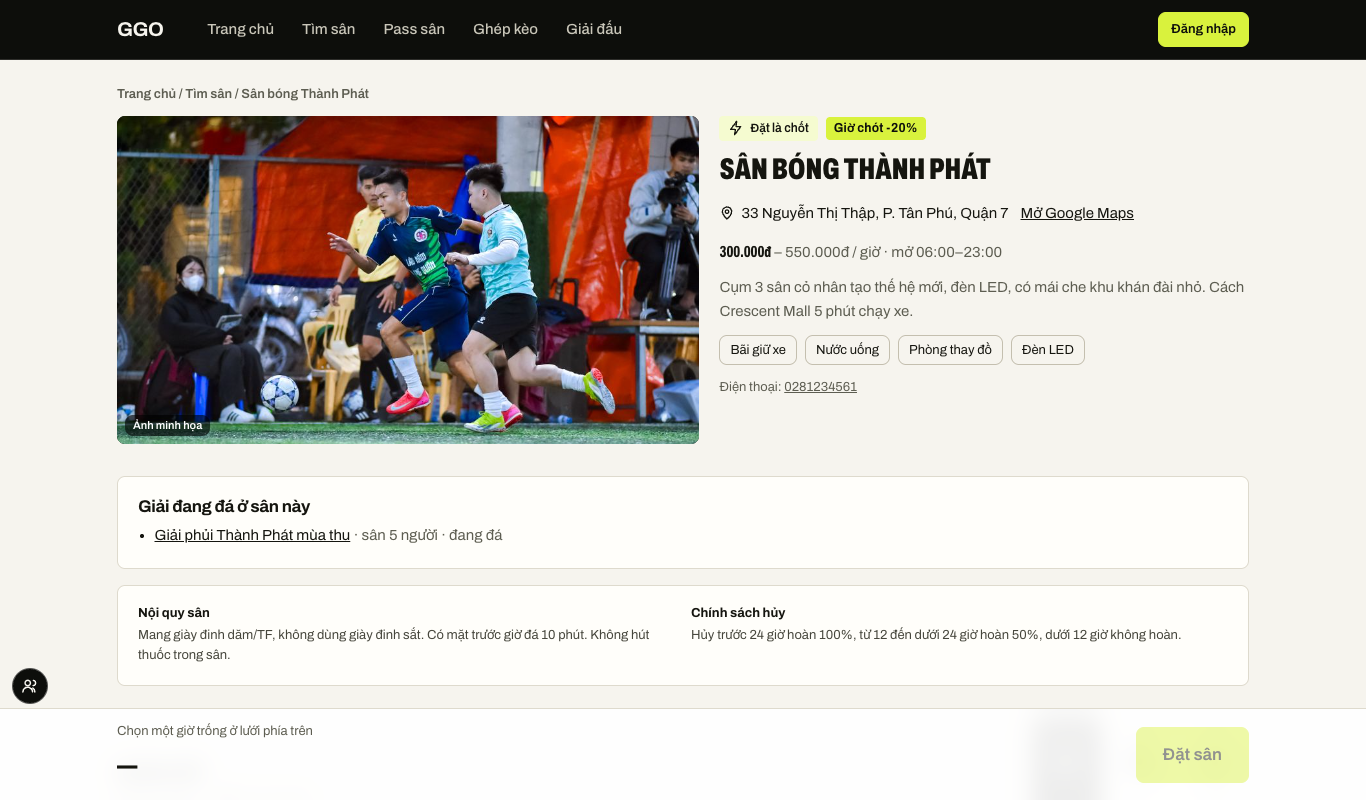
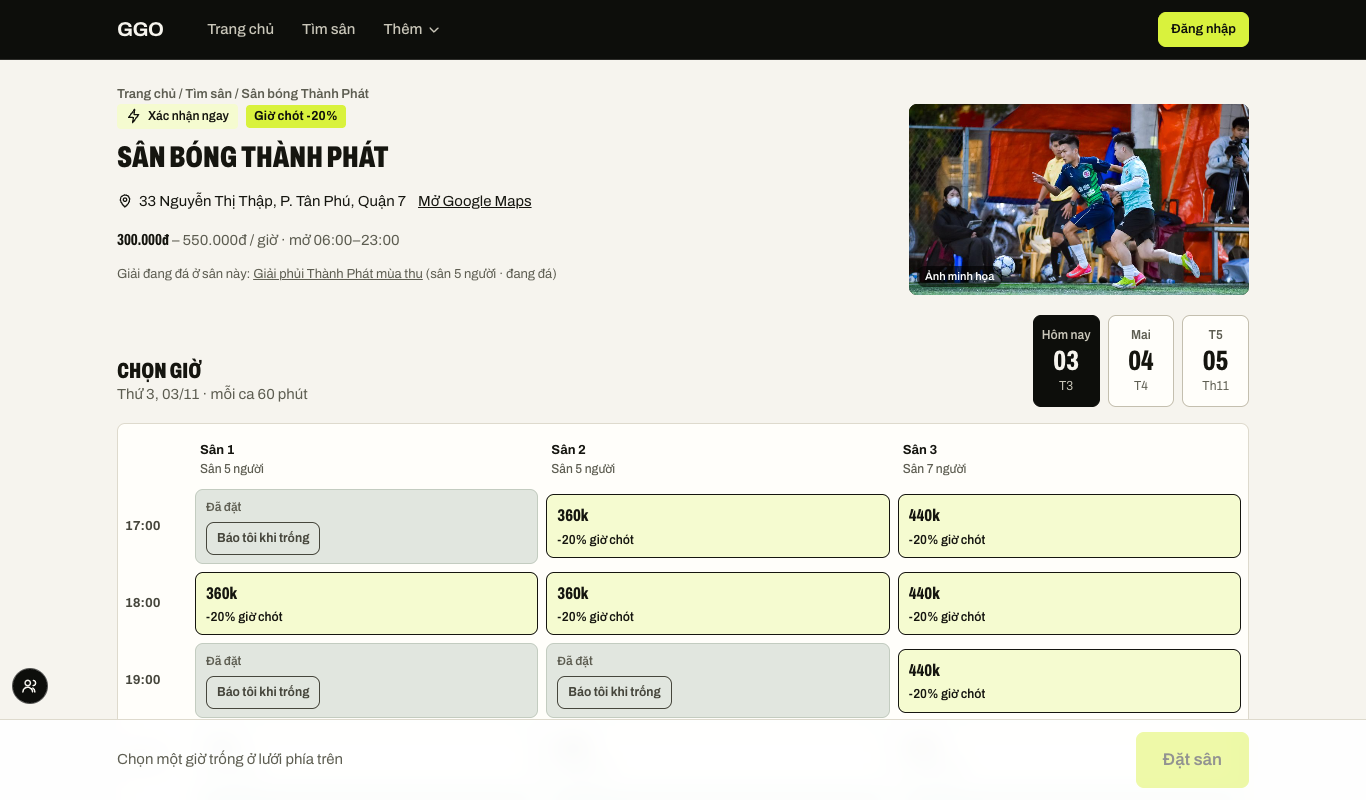
Tài liệu Buổi 2: chụp lại ảnh từ main, thêm mục Cải thiện trải nghiệm đặt sân, sửa mô tả giao diện cũ

diff --git a/docs/buoi2/nop-bai.md b/docs/buoi2/nop-bai.md
@@ -33,11 +33,11 @@ Vì vậy **không viết là "chỉ dùng HTML/CSS"**. Phần HTML/CSS là các
 ## 2. Trang chủ
 
 - **File:** `public/index.html` + `public/css/app.css`, header/footer dựng bởi `public/js/ui/shell.js`, nội dung bởi `public/js/index-page.js`.
-- **Header:** logo "GGO" (`.brand`), menu `<nav class="nav">` với Trang chủ, Tìm sân, Pass sân, Ghép kèo, Giải đấu, nút Đăng nhập (`shell.js`, hằng `NAV`).
+- **Header:** logo "GGO" (`.brand`), menu `<nav class="nav">` với Trang chủ, Tìm sân và mục **Thêm** (Pass sân, Ghép kèo, Giải đấu, Nhờ báo giá), nút Đăng nhập (`shell.js`, hằng `NAV`).
 - **Footer:** `footer.site-footer` dựng bởi `shell.js`: logo GGO, khẩu hiệu "Thấy sân trống, đặt là đá." (`.footer-slogan`), một dòng mô tả, liên kết "Giới thiệu GGO" và chữ GGO cỡ lớn ở cuối (`.footer-wordmark`).
-- **Banner:** `section.match-hero` có ảnh (`hero-1920.jpg`, ảnh dọc riêng cho màn nhỏ bằng `<picture>`), tiêu đề `h1`, lời dẫn, form tìm sân (lời kêu gọi hành động) và nút "Xem tất cả giờ trống".
-- **Sân nổi bật:** khối "Sân còn trống" (`#venue-list`) và "Giờ trống gần nhất" (`#tonight-rows`).
-- **Liên kết tới trang danh sách:** form `action="/venues.html"` và liên kết "Xem tất cả giờ trống".
+- **Banner:** `section.match-hero` có ảnh (`hero-1920.jpg`, ảnh dọc riêng cho màn nhỏ bằng `<picture>`), tiêu đề `h1` "Đặt sân bóng mini", lời dẫn, form tìm sân (ngày, giờ, loại sân, khu vực; lời kêu gọi hành động) và cột "Tối nay còn trống" với liên kết "Xem thêm".
+- **Sân nổi bật:** băng thẻ "Sân còn trống" (`#venue-list`) kèm giờ trống bấm được, và cột "Tối nay còn trống" (`#tonight-rows`).
+- **Liên kết tới trang danh sách:** form `action="/venues.html"` và liên kết "Xem tất cả sân".
 - **Liên kết tới trang giới thiệu:** có, liên kết "Tìm hiểu về GGO →" ở cuối trang chủ và liên kết "Giới thiệu GGO" ở footer (xem mục 5).
 
 ![Trang chủ 1366](screens/trang-chu-1366.png)
@@ -107,8 +107,8 @@ Trong mã (`public/css/app.css`):
 
 | Phần tử | Ảnh | Thay đổi đo được |
 | --- | --- | --- |
-| Liên kết menu (hover) | ![](screens/hover-lien-ket-menu.png) | Chữ "Pass sân" đổi từ `#c9c6b9` sang `#f6f4ee`, `transition: color 0.18s` |
-| Liên kết menu (focus bằng Tab) | ![](screens/focus-lien-ket-menu.png) | Có vòng `outline` lime 2 px bo tròn quanh chữ "Pass sân", nhìn rõ trên nền header tối: tương phản **15,41:1** (trước khi sửa là `#15150f` trên `#0d0e0b`, **1,06:1**). Gạch lime dưới "Tìm sân" (ảnh "Bình thường") là dấu "trang đang mở", không phải dấu focus |
+| Liên kết menu (hover) | ![](screens/hover-lien-ket-menu.png) | Chữ "Trang chủ" đổi từ `#c9c6b9` sang `#f6f4ee`, `transition: color 0.18s` |
+| Liên kết menu (focus bằng Tab) | ![](screens/focus-lien-ket-menu.png) | Có vòng `outline` lime 2 px bo tròn quanh chữ "Trang chủ", nhìn rõ trên nền header tối: tương phản **15,41:1** (trước khi sửa là `#15150f` trên `#0d0e0b`, **1,06:1**). Gạch lime dưới "Tìm sân" (ảnh "Bình thường") là dấu "trang đang mở", không phải dấu focus |
 | Nút mở menu ở 390 px (focus bằng Tab) | ![](screens/focus-nut-menu.png) | Vòng lime 2 px quanh nút 44×44 px, tương phản **15,41:1** với header tối (trước: 1,06:1) |
 | Nút xem chi tiết: tên sân trong thẻ (hover) | ![](screens/hover-xem-chi-tiet.png) | Gạch chân 2 px đổi từ trong suốt sang `#15150f`, `transition: text-decoration-color 0.18s`; kích thước giữ nguyên 332,7×24,2 px. Viền thẻ chứa nó đổi như thẻ sân. Trước khi sửa: tên sân không đổi gì (`transition: all 0s`) |
 | Nút Đặt sân (hover) | ![](screens/hover-nut-dat-san.png) | Nền lime `#d9f23d` nhạt sang `#e6f77a`, `transition: background, border-color 0.18s` |
@@ -132,18 +132,18 @@ Một ghi nhận khác, không phải lỗi: `docs/TASKS.md` mục T6 ghi "Đã 
 
 ### 8.2 Lỗi giao diện ở 1366 / 768 / 390 px
 
-Đo ngày 03/11 trên bản dữ liệu giả chạy ở máy (`npm run prototype`, cổng 4100), bằng Playwright trên Chrome, cho 3 trang (trang chủ, danh sách sân, chi tiết sân `venue.html?id=1`) ở 3 khổ 1366 / 768 / 390 px. Sau lần đo đầu, lỗi 1, 2 và 5 đã được sửa bằng CSS (`public/css/app.css`) và đo lại; lỗi 3 được xử lý bằng trang giới thiệu (mục 5); lỗi 4 giữ nguyên vì cố ý theo thiết kế.
+Đo lại ngày 04/11 từ `main` (sau đợt cải thiện trải nghiệm, mục 8.3) trên bản dữ liệu giả chạy ở máy (`npm run prototype`, cổng 4100), bằng Playwright trên Chrome, cho 3 trang (trang chủ, danh sách sân, chi tiết sân `venue.html?id=1`) ở 3 khổ 1366 / 768 / 390 px. Sau lần đo đầu, lỗi 1, 2 và 5 đã được sửa bằng CSS (`public/css/app.css`) và đo lại; lỗi 3 được xử lý bằng trang giới thiệu (mục 5); lỗi 4 giữ nguyên vì cố ý theo thiết kế.
 
 **Đạt (không có lỗi):**
 
 | Tiêu chí của đề | Kết quả đo |
 | --- | --- |
-| Không tràn ngang | `scrollWidth` bằng `innerWidth` ở cả 9 trường hợp (3 trang × 3 khổ). Phần tử duy nhất vượt mép phải là dải chữ chạy `.ticker-track` ở trang chủ, nằm trong vùng `overflow` bị cắt (cố ý), không tạo thanh cuộn ngang |
-| Ảnh không méo | 9 ảnh ở trang chủ, 40 ở danh sách, 1 ở chi tiết: tỉ lệ hiển thị khớp tỉ lệ gốc hoặc dùng `object-fit` đúng |
+| Không tràn ngang | `scrollWidth` bằng `innerWidth` ở cả 9 trường hợp (3 trang × 3 khổ). Ở 768 và 390 px, các thẻ của băng "Sân còn trống" ở trang chủ vượt mép phải nhưng nằm trong khung cuộn ngang riêng (cố ý), không tạo thanh cuộn ngang cho cả trang |
+| Ảnh không méo | 9 ảnh ở trang chủ, 40 ở danh sách, 1 ở chi tiết (cả 50 ảnh đều có `alt`, `width`, `height`, tải được): tỉ lệ hiển thị khớp tỉ lệ gốc hoặc dùng `object-fit` đúng |
 | Danh sách đổi số cột | Danh sách sân: 3 cột ở 1366, 2 cột ở 768, 1 cột ở 390 |
-| Menu không chồng lấn | Header cao 60 px ở cả 3 khổ, không có cặp phần tử nào chồng lên nhau. 1366: menu ngang 5 mục + nút Đăng nhập; 768 và 390: gọn vào nút menu (ảnh `trang-chu-390-menu.png`), mỗi mục cao 47 px |
+| Menu không chồng lấn | Header cao 60 px ở cả 3 khổ, không có cặp phần tử nào chồng lên nhau. 1366: menu ngang (Trang chủ, Tìm sân, Thêm) + nút Đăng nhập; 768 và 390: gọn vào nút menu (ảnh `trang-chu-390-menu.png`), mỗi mục cao 47 px (6 mục: Trang chủ, Tìm sân, rồi Pass sân, Ghép kèo, Giải đấu, Nhờ báo giá dưới nhãn "Thêm") |
 | Banner không mất nội dung | Ảnh nền, tiêu đề và nút "Tìm sân trống" nằm trọn trong khung ở cả 3 khổ |
-| Liên kết trỏ tới trang thật | Trang chủ 25, danh sách 257, chi tiết 9 liên kết nội bộ: tất cả trả 200, không có liên kết chết |
+| Liên kết trỏ tới trang thật | Trang chủ 25, danh sách 259, chi tiết 11 liên kết nội bộ khác nhau: tất cả trả 200, không có liên kết chết |
 
 **Lỗi và điểm chưa đạt:**
 
@@ -153,11 +153,68 @@ Một ghi nhận khác, không phải lỗi: `docs/TASKS.md` mục T6 ghi "Đã 
 | 2 | Tên sân (đóng vai trò liên kết xem chi tiết) **không có hiệu ứng hover riêng**; chỉ thẻ chứa nó đổi viền | Danh sách sân, mọi khổ | **Đã xử lý.** `.venue-card .title` có gạch chân 2 px trong suốt, `.venue-card .title:hover` đổi màu gạch chân sang mực, `transition: text-decoration-color var(--dur)` (`public/css/app.css` dòng 989–1001). Không đổi cỡ chữ hay độ đậm | Trước: màu và gạch chân không đổi, `transition: all 0s`. Sau: gạch chân từ trong suốt sang `#15150f`, `transition: text-decoration-color 0.18s`; kích thước trước/sau hover giữ nguyên 332,7×24,2 px, vị trí không đổi; ảnh `hover-xem-chi-tiet.png` |
 | 3 | Trang chủ **chưa có liên kết tới trang giới thiệu** | Trang chủ | **Đã xử lý.** Thêm trang `public/about.html` (mục 5), liên kết "Giới thiệu GGO" ở footer mọi trang (`public/js/ui/shell.js`) và liên kết "Tìm hiểu về GGO →" ở cuối trang chủ (`public/index.html`). Không đặt vào menu trên cùng vì ở khổ 900 px menu sẽ bị tràn | Trước: không có trang giới thiệu trong `public/`. Sau: trang có và trả 200, đã thêm vào `public/sitemap.xml`; hai liên kết trên đều trỏ tới `about.html` |
 | 5 | **Vòng focus gần như không thấy trên nền tối**: quy tắc chung `:focus-visible { outline: 2px solid var(--text) }` dùng màu `#15150f` trên nền header `#0d0e0b` | Header và menu điện thoại, mọi khổ (liên kết menu, logo, nút Đăng nhập, nút mở menu, mục trong menu, nút khung tìm kiếm trang chủ) | **Đã xử lý.** Vòng focus dùng biến `--focus`: mực trên nền sáng, lime `#d9f23d` trên các vùng nền tối (dòng 135–161). Khung tìm kiếm trang chủ (nền trắng nằm trong ảnh tối) trả lại mực; nút trong khung đó vẽ vòng vào trong nút (`outline-offset: -4px`) vì khung cắt phần vẽ ra ngoài. Nút công cụ demo nổi vẽ vòng lime sát nút (dòng 463–467). Khi kiểm còn phát hiện và sửa thêm hai lỗi cùng nhóm: menu điện thoại đóng vẫn nhận phím Tab dù đã mờ hẳn (nay `visibility: hidden` khi đóng, dòng 401), và header dính che phần tử đang focus khi Tab ngược (`scroll-padding-top` ở dòng 98) | Đo bằng ảnh chụp thật ở mỗi lần Tab, lấy màu nền ngay quanh vòng (3 trang, 390 và 1366, Tab xuôi và ngược, trước 363 mẫu, sau 355 mẫu có vòng): tương phản vòng với nền **trước: 1,06:1** ở header (135 mẫu dưới 3:1); **sau: 15,41:1** trên nền tối, 14,59:1 (vòng mực vào trong nút lime), 16,66–18,16:1 trên nền sáng (liên kết, thẻ, nút Đặt sân). Còn 5 mẫu bị đánh dấu là nút công cụ demo (chỉ có trên dữ liệu giả): vòng sát nút đen nên tương phản đo với chính nút là 15,41:1, không đo với nền trang. Ảnh `focus-lien-ket-menu.png`, `focus-nut-menu.png` |
-| 4 | Ở 768 và 390, các mục "Giờ chót" và "Sân còn trống" của trang chủ là **băng cuộn ngang** (có chữ "Vuốt ngang để xem thêm"), nên ảnh chỉ thấy 1–2 thẻ | Trang chủ, 768 / 390 | Cố ý theo thiết kế; nêu rõ khi nộp để người chấm không hiểu là thiếu nội dung | Ở 1366 hiện đủ 3 thẻ trên một hàng |
+| 4 | Ở 768 và 390, mục "Sân còn trống" của trang chủ là **băng cuộn ngang** (có chữ "Vuốt ngang để xem thêm"), nên ảnh chỉ thấy 1–2 thẻ | Trang chủ, 768 / 390 | Cố ý theo thiết kế; nêu rõ khi nộp để người chấm không hiểu là thiếu nội dung | Ở 1366 hiện đủ 3 thẻ trên một hàng |
+| 6 | Ba chip chọn ngày ở trang chi tiết sân cao **41 px** ở 390 px (mức khuyên dùng: 44 px); phát hiện khi đo lại sau đợt cải thiện | Chi tiết sân, 390 px | **Chưa xử lý.** Ghi nhận để sửa tiếp, không ảnh hưởng chức năng | 41 px, chưa đạt 44 px |
 
 **Ghi chú cho người xem ảnh:**
 - Ảnh chụp bản dữ liệu giả nên có thêm thanh "vai trò demo" ở góc dưới và nút giả lập trong menu; bản thật không có các phần này.
 - Trang chi tiết dùng breadcrumb "Trang chủ / Tìm sân / Tên sân" làm liên kết quay lại, không có nút "← Quay lại" riêng. Nút "Đặt sân" nằm ở thanh cố định cuối màn hình và chỉ bật khi đã chọn một giờ trống.
+
+### 8.3 Cải thiện trải nghiệm đặt sân
+
+**Vấn đề.** Khi cả luồng đã chạy được, nhóm đi thử một lượt từ trang chủ tới lúc có đơn (tìm sân, chọn giờ, đăng nhập, xác nhận, trang đơn) và thấy năm chỗ vướng:
+
+- Ở bản cũ, trang chủ dài; chữ lớn nhất là câu hỏi "Tối nay đá ở đâu?" thay vì nói thẳng việc đặt sân; giờ còn trống nằm sau nhiều màn cuộn.
+- Trang kết quả tìm sân: giờ trống đầu tiên nằm ngoài màn đầu ở 390 px (126% chiều cao màn hình) và sát mép dưới ở 1366 px (99%).
+- Bấm **Đặt sân** khi chưa đăng nhập thì phải đăng nhập rồi tự tìm lại sân, giờ và bấm lần nữa.
+- Ở bản cũ, nhãn "Đặt là chốt" và trạng thái "đã có sân" khi chưa chuyển khoản dễ hiểu nhầm là đã giữ chỗ xong.
+- Ở bản cũ, header hiện chữ "Đang tải…" trong lúc chờ, và các mục phụ (Pass sân, Ghép kèo, Giải đấu) nằm ngang hàng với mục chính.
+
+**Cách sửa** (đã có trên `main`, bản mẫu đã đưa lên ggo-datsan.pages.dev):
+
+- **Trang chủ:** chữ lớn nhất là "Đặt sân bóng mini"; giờ còn trống nằm ngay màn đầu; bỏ dải chữ chạy và khối giờ chót trùng lặp.
+- **Menu:** mục **Thêm** gom Pass sân, Ghép kèo, Giải đấu và Nhờ báo giá; header không còn hiện "Đang tải…".
+- **Kết quả tìm sân:** hiện luôn các giờ trống trên thẻ; bộ lọc thu gọn thành một dòng tóm tắt (bấm "Đổi" để mở). Thanh đặt sân ghi tên sân, giờ và giá.
+- **Đăng nhập:** nhập số điện thoại hoặc email; trang nói rõ đang đặt sân nào, giờ nào; đăng nhập xong tự quay lại hộp xác nhận. Đăng ký còn 3 ô.
+- **Giữ sân 15 phút** trong lúc chờ chuyển khoản, nhãn "Đang giữ sân · chuyển khoản trước HH:mm". Hộp xác nhận nói hạn chuyển khoản trước, chính sách hủy sau.
+- **Lịch ngoài thời hạn đặt** hiện "Ngoài thời hạn đặt" thay vì để trống.
+
+**Số đo.** Do một kịch bản tự động (`e2e/ux-measure.mjs`) đo trên bản dữ liệu mẫu ở máy, mỗi bản một lần, nên chỉ dùng để so trước và sau, không phải tốc độ trên mạng thật.
+
+*Bảng 8.3. Đo trước và sau cải thiện (trước: commit `a8085ce`; sau: `main`)*
+
+| Chỉ số | 390 px | 1366 px |
+| --- | --- | --- |
+| Số lần bấm cho tới khi có đơn (kèm số ô phải nhập) | 6 + 2 ô → 5 + 2 ô | 6 + 2 ô → 5 + 2 ô |
+| Giờ trống đầu tiên ở trang kết quả, tính theo chiều cao màn hình (trên 100% là phải cuộn) | 126% → 72% | 99% → 68% |
+| Chiều dài trang chủ | 4731 → 3730 px | 3779 → 2983 px |
+| Header và logo hiện ra sau | 284 → 64 ms | 109 → 44 ms |
+
+Ở trang sân, 390 × 844 px: hàng giờ đầu tiên trước đây nằm ở y 750–816 và bị thanh đặt sân (y 763) che một phần; nay ở y 624–690, không bị che. Ở 1366 px không đổi (y 489–553).
+
+**Ảnh trước và sau.** Ảnh chụp cùng một kịch bản cho cả hai bản (trước từ commit `a8085ce`, sau từ `main`), chỉ lấy màn hình đầu của mỗi bước. Kịch bản bấm vào giờ đầu tiên của sân đầu tiên trong kết quả nên hai bên có thể rơi vào hai sân khác nhau; so bố cục và chữ, không so tên sân. Ở bản trước, sau khi đăng nhập trang không tự mở hộp xác nhận nên kịch bản phải quay lại sân và bấm Đặt sân lần nữa; ảnh "Hộp xác nhận" của bản trước chụp sau bước đó.
+
+*Khổ 390 px, màn hình đầu của từng bước.*
+
+| Bước | Trước | Sau |
+| --- | --- | --- |
+| Tìm sân | ![Tìm sân, trước, 390 px](screens/ux-truoc-1-tim-san-390.png) | ![Tìm sân, sau, 390 px](screens/ux-sau-1-tim-san-390.png) |
+| Trang sân | ![Trang sân, trước, 390 px](screens/ux-truoc-2-trang-san-390.png) | ![Trang sân, sau, 390 px](screens/ux-sau-2-trang-san-390.png) |
+| Đăng nhập | ![Đăng nhập, trước, 390 px](screens/ux-truoc-3-dang-nhap-390.png) | ![Đăng nhập, sau, 390 px](screens/ux-sau-3-dang-nhap-390.png) |
+| Hộp xác nhận | ![Hộp xác nhận, trước, 390 px](screens/ux-truoc-4-xac-nhan-390.png) | ![Hộp xác nhận, sau, 390 px](screens/ux-sau-4-xac-nhan-390.png) |
+| Trang đơn | ![Trang đơn, trước, 390 px](screens/ux-truoc-5-trang-don-390.png) | ![Trang đơn, sau, 390 px](screens/ux-sau-5-trang-don-390.png) |
+
+*Khổ 1366 px, màn hình đầu của từng bước.*
+
+| Bước | Trước | Sau |
+| --- | --- | --- |
+| Tìm sân | ![Tìm sân, trước, 1366 px](screens/ux-truoc-1-tim-san-1366.png) | ![Tìm sân, sau, 1366 px](screens/ux-sau-1-tim-san-1366.png) |
+| Trang sân | ![Trang sân, trước, 1366 px](screens/ux-truoc-2-trang-san-1366.png) | ![Trang sân, sau, 1366 px](screens/ux-sau-2-trang-san-1366.png) |
+| Đăng nhập | ![Đăng nhập, trước, 1366 px](screens/ux-truoc-3-dang-nhap-1366.png) | ![Đăng nhập, sau, 1366 px](screens/ux-sau-3-dang-nhap-1366.png) |
+| Hộp xác nhận | ![Hộp xác nhận, trước, 1366 px](screens/ux-truoc-4-xac-nhan-1366.png) | ![Hộp xác nhận, sau, 1366 px](screens/ux-sau-4-xac-nhan-1366.png) |
+| Trang đơn | ![Trang đơn, trước, 1366 px](screens/ux-truoc-5-trang-don-1366.png) | ![Trang đơn, sau, 1366 px](screens/ux-sau-5-trang-don-1366.png) |
+
+**Giới hạn của kết quả.** Các số trên đến từ kịch bản đo tự động. Ngoài ra nhóm cho một tác tử "đọc mù" (chỉ nhìn chuỗi ảnh, chưa đọc mã) nhận xét luồng. Câu trả lời: "Nhìn cả chuỗi thì hiểu đây là web tìm sân bóng, chọn sân và giờ, đăng nhập, xác nhận rồi chuyển khoản để giữ sân. Luồng nhìn chung theo thứ tự hợp lý; vướng nhất là ý nghĩa trạng thái "đã có sân" khi chưa chuyển khoản, và việc phân biệt chọn giờ/đặt xong/giữ chỗ chính thức." Sau đó nhãn được đổi thành "Đang giữ sân · chuyển khoản trước HH:mm" và "Xác nhận ngay" để sửa đúng chỗ đó. **Chưa thử với người thật.** Phiếu `docs/ux-test.md` là biểu mẫu để nhóm mời 5 người thử trước và sau; khi có kết quả thì mới có thể nói người dùng thấy dễ hơn.
 
 ## 9. Báo cáo sử dụng AI
 
@@ -278,7 +335,7 @@ Trang `public/about.html` đã làm theo đề xuất dựa trên `docs/PRD.md`.
 | 5 | Giới thiệu | Có, chờ thông tin liên hệ | `public/about.html`; chỉ còn email và số điện thoại để chủ dự án điền (hai ô giữ chỗ) |
 | 6 | Responsive | Có | ảnh 4 trang × 3 khổ trong `screens/` (trang chủ, danh sách, chi tiết, giới thiệu); không tràn ngang, ảnh không méo, danh sách 3/2/1 cột |
 | 7 | Hover/focus | Có | 7 ảnh trước/sau (4 hover, 3 focus); hover tên sân và vòng focus trên nền tối đã sửa (mục 8.2, lỗi 2 và 5) |
-| 8 | Báo cáo kiểm thử | Có | 8.1: 4 lỗi đã xử lý có bằng chứng; 8.2: đo 3 trang × 3 khổ, lỗi 1, 2, 3, 5 đã xử lý có số đo trước → sau, lỗi 4 cố ý theo thiết kế |
+| 8 | Báo cáo kiểm thử | Có | 8.1: 4 lỗi đã xử lý có bằng chứng; 8.2: đo 3 trang × 3 khổ, lỗi 1, 2, 3, 5 đã xử lý có số đo trước → sau, lỗi 4 cố ý theo thiết kế; 8.3: cải thiện trải nghiệm đặt sân, số đo tự động trước → sau, chưa thử với người thật |
 | 9 | Báo cáo AI | Có | 2 ví dụ + 1 ví dụ ngoài phạm vi |
 | 10 | README | Có | mục "Phạm vi Buổi 2": cách xem, cách kiểm responsive, hạn chế; mục "Cấu trúc" còn viết cho cả dự án |
 | 11 | Bảng phân công | Khung trống | chờ chủ dự án |
